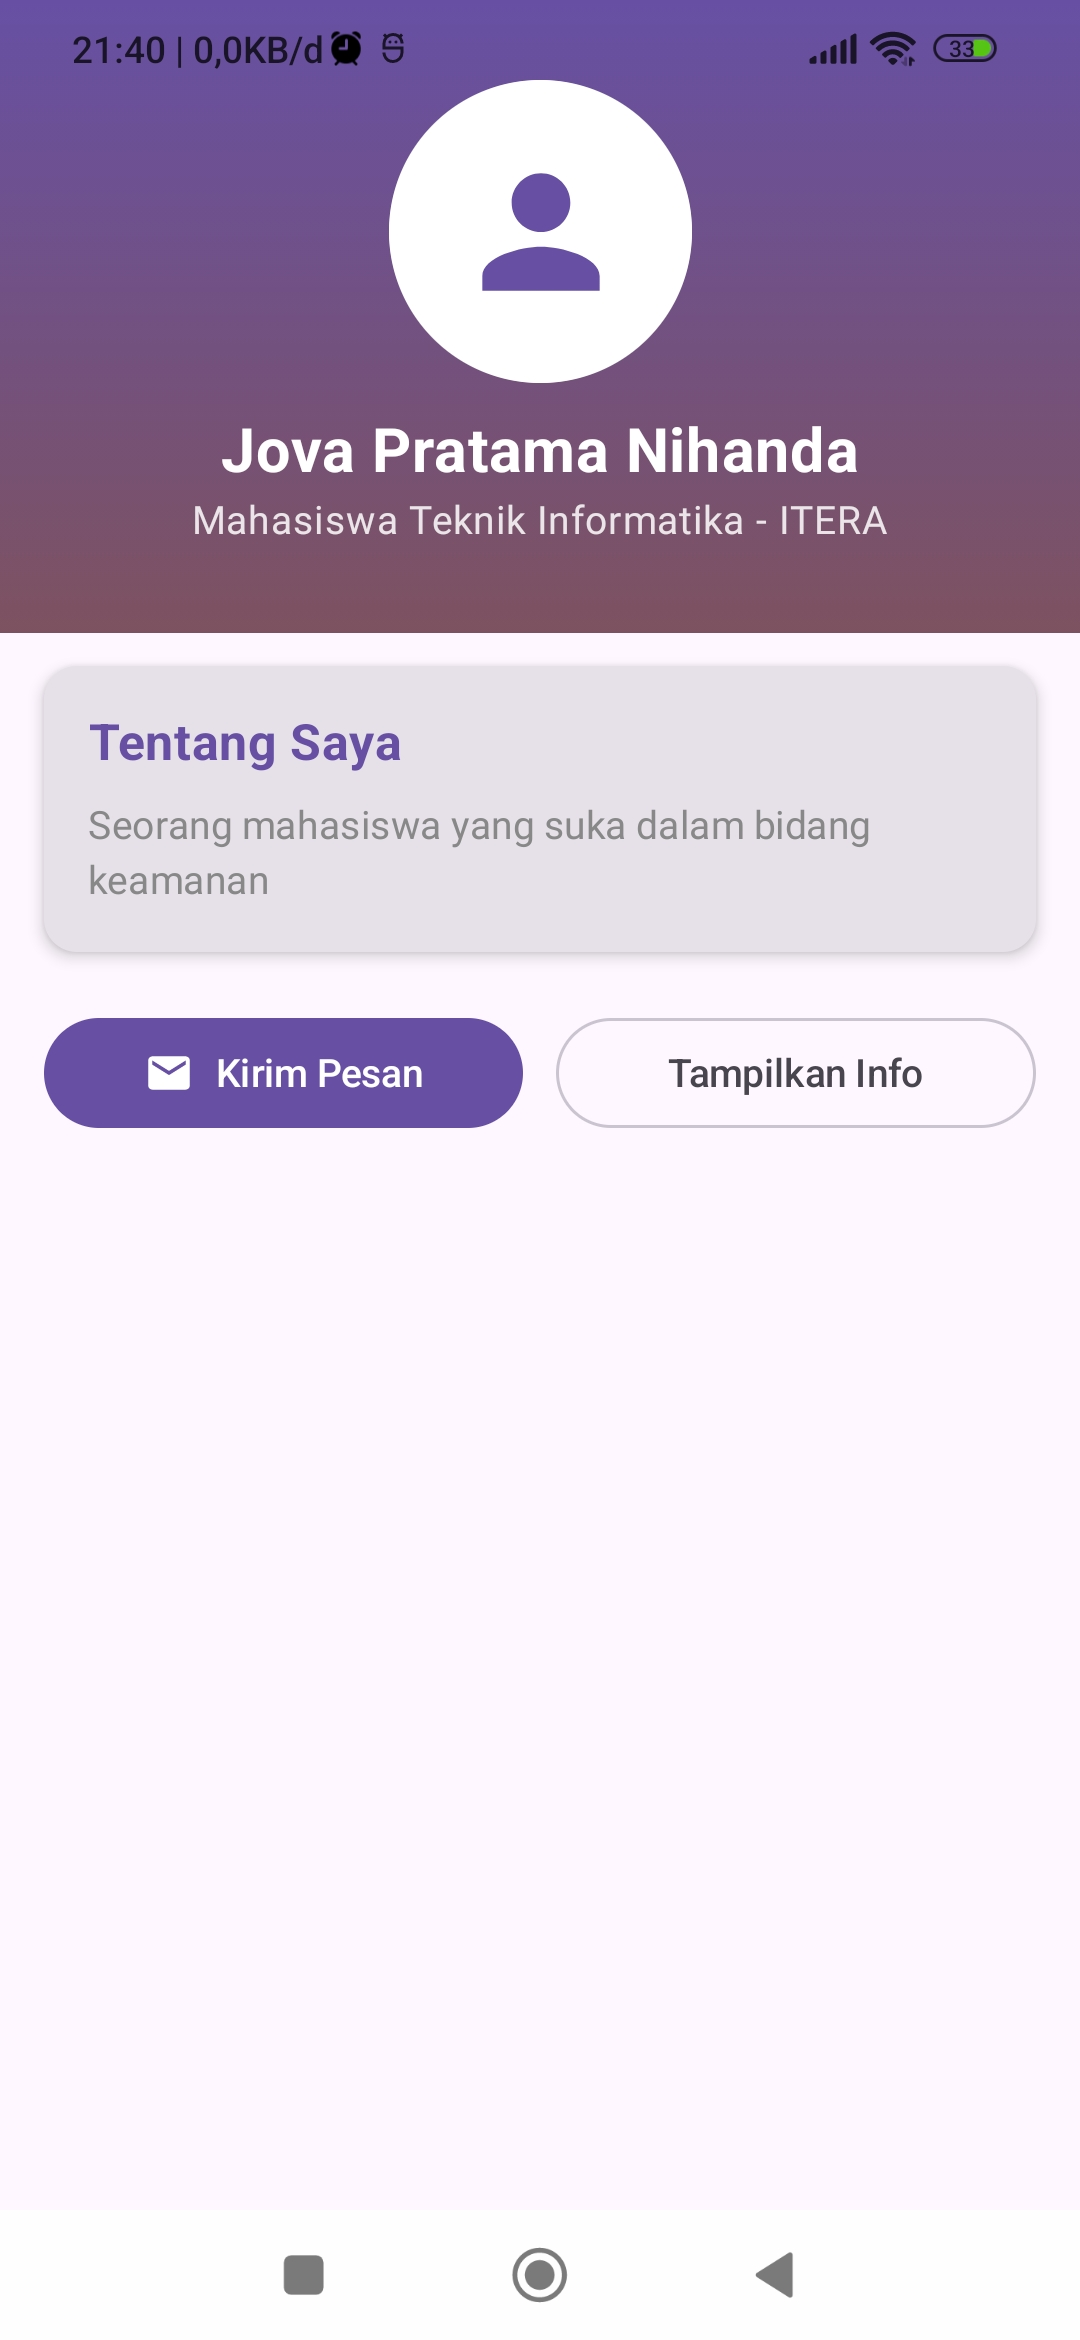
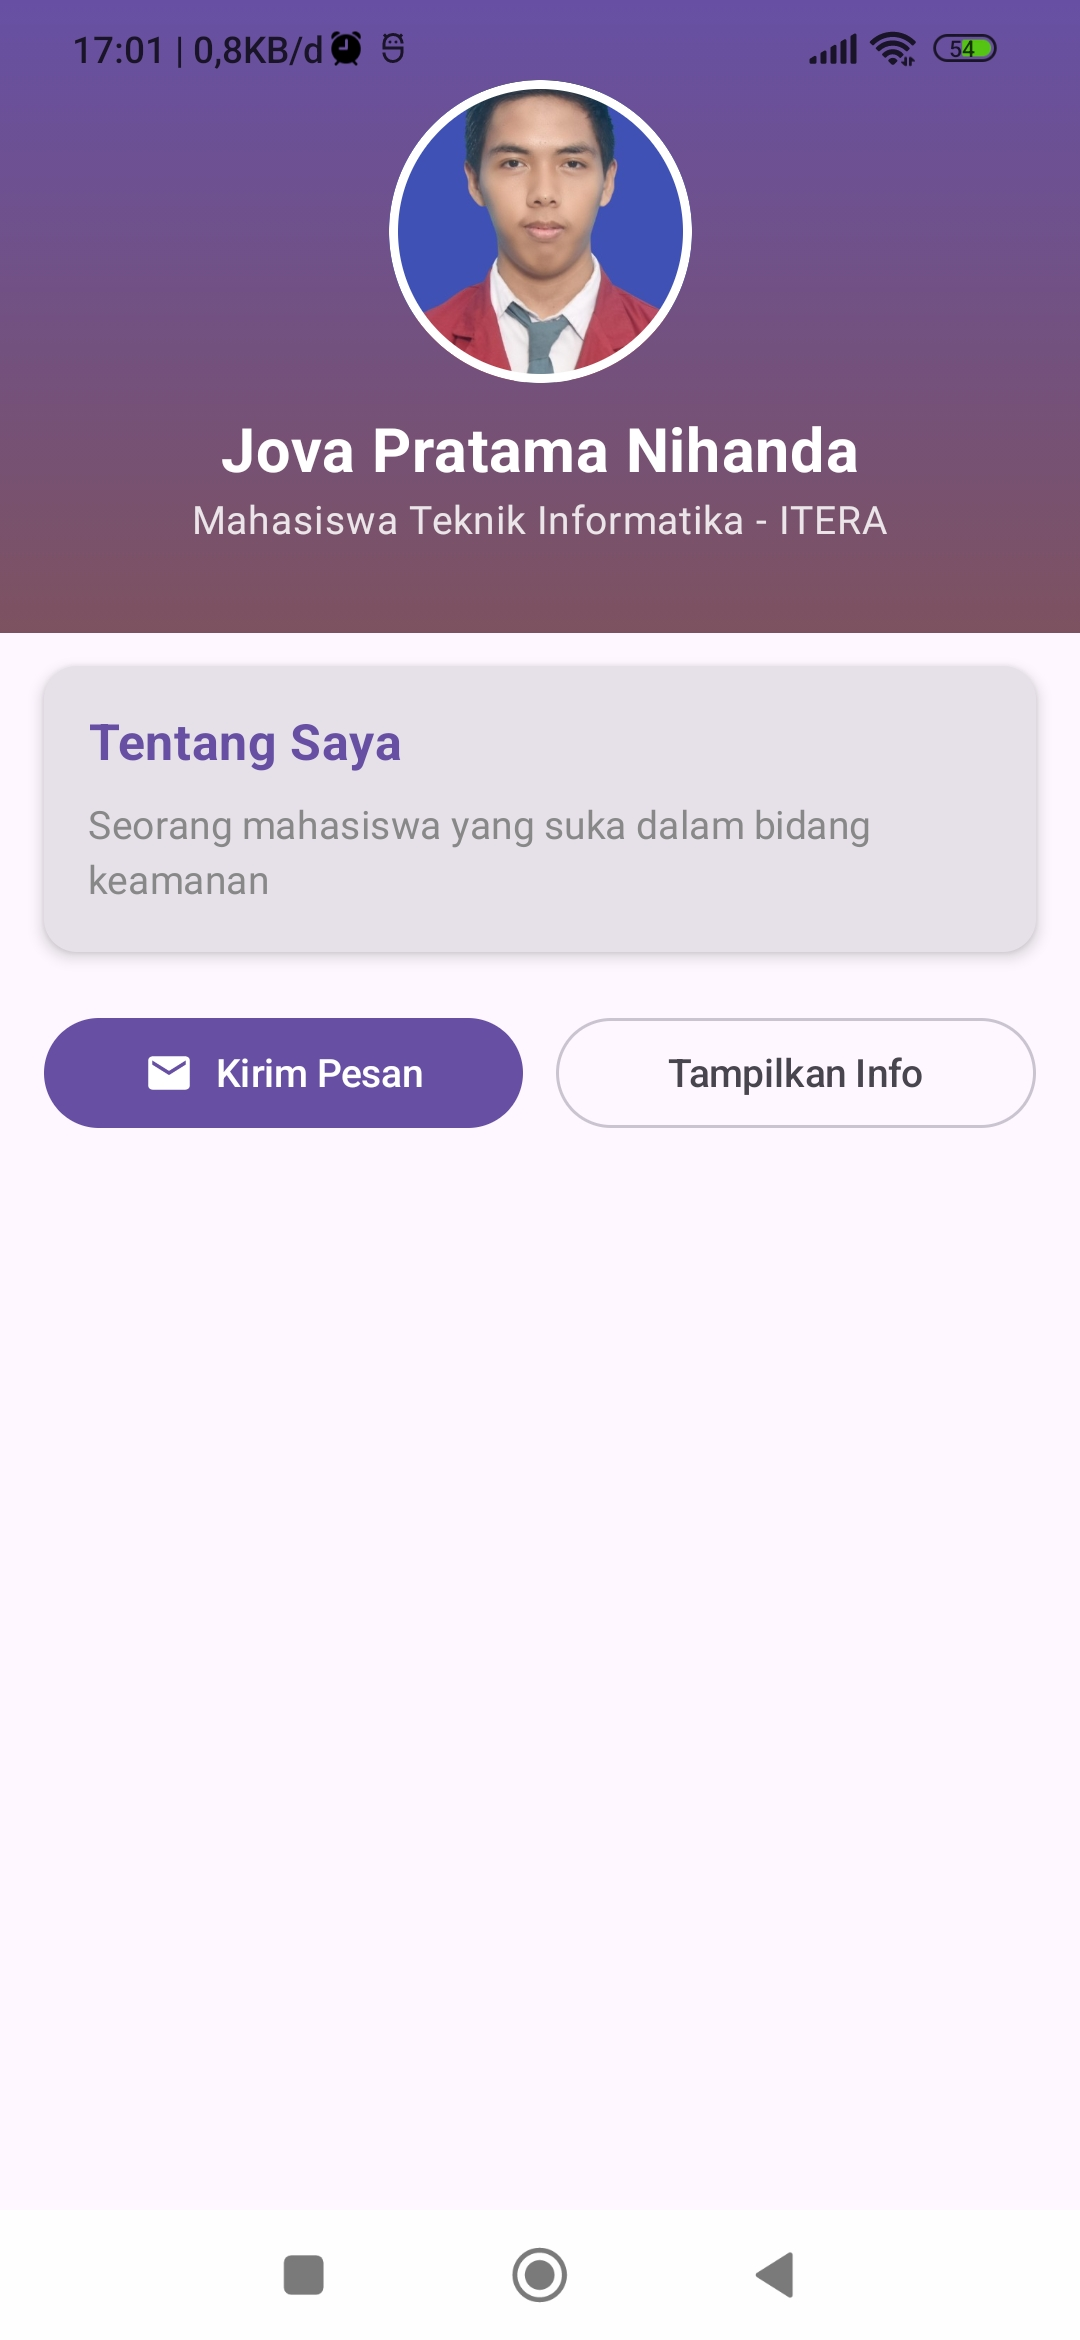
Menambahkan foto profil

Changed region(s): [[0.3667, 0.0312, 0.6417, 0.1872], [0.0611, 0.0, 0.1528, 0.0312], [0.8861, 0.0, 0.9167, 0.0312]]

diff --git a/week3-my-profile-app/shared/src/commonMain/kotlin/id/ac/itera/myprofile/App.kt b/week3-my-profile-app/shared/src/commonMain/kotlin/id/ac/itera/myprofile/App.kt
@@ -1,6 +1,7 @@
 package id.ac.itera.myprofile
 
 import androidx.compose.animation.AnimatedVisibility
+import androidx.compose.foundation.Image
 import androidx.compose.foundation.background
 import androidx.compose.foundation.border
 import androidx.compose.foundation.layout.Arrangement
@@ -44,9 +45,13 @@ import androidx.compose.ui.draw.clip
 import androidx.compose.ui.graphics.Brush
 import androidx.compose.ui.graphics.Color
 import androidx.compose.ui.graphics.vector.ImageVector
+import androidx.compose.ui.layout.ContentScale
 import androidx.compose.ui.text.font.FontWeight
 import androidx.compose.ui.unit.dp
 import androidx.compose.ui.unit.sp
+import myprofileapp.shared.generated.resources.Res
+import myprofileapp.shared.generated.resources.photo_profile
+import org.jetbrains.compose.resources.painterResource
 
 data class ProfileData(
     val name: String,
@@ -171,21 +176,15 @@ fun ProfileHeader(
         contentAlignment = Alignment.Center
     ) {
         Column(horizontalAlignment = Alignment.CenterHorizontally) {
-            Box(
+            Image(
+                painter = painterResource(Res.drawable.photo_profile),
+                contentDescription = "Foto profil",
+                contentScale = ContentScale.Crop,
                 modifier = Modifier
                     .size(110.dp)
                     .clip(CircleShape)
-                    .background(Color.White)
-                    .border(3.dp, Color.White, CircleShape),
-                contentAlignment = Alignment.Center
-            ) {
-                Icon(
-                    imageVector = Icons.Default.Person,
-                    contentDescription = "Foto profil",
-                    tint = MaterialTheme.colorScheme.primary,
-                    modifier = Modifier.size(64.dp)
-                )
-            }
+                    .border(3.dp, Color.White, CircleShape)
+            )
 
             Spacer(modifier = Modifier.height(12.dp))
 
